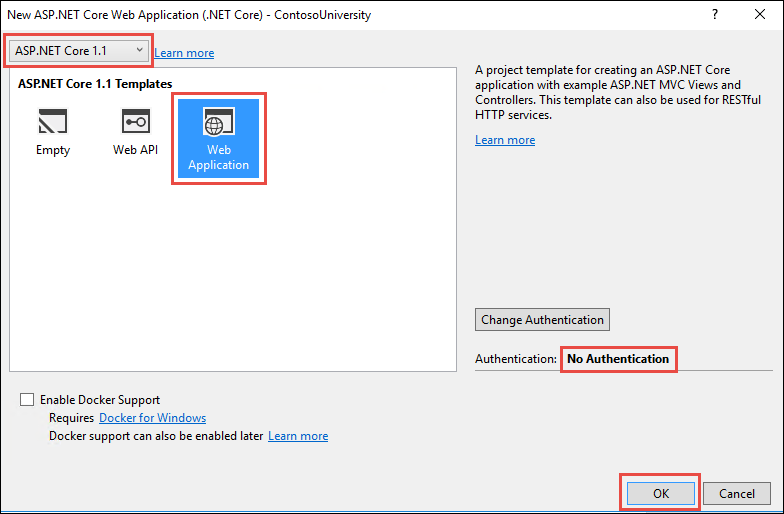
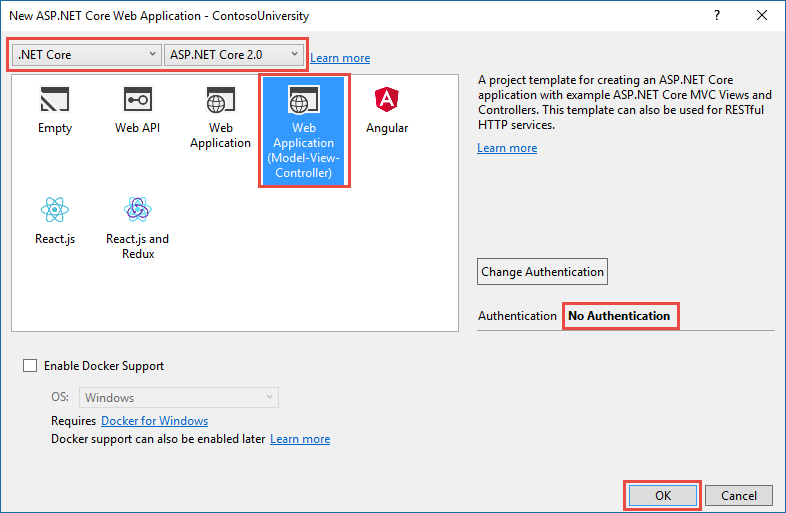
initial2

diff --git a/aspnetcore/data/ef-mvc/intro.md b/aspnetcore/data/ef-mvc/intro.md
@@ -59,7 +59,7 @@ Open Visual Studio and create a new ASP.NET Core C# web project named "ContosoUn
 
 * From the left pane, select **Templates > Visual C# > Web**.
 
-* Select the **ASP.NET Core Web Application (.NET Core)** project template.
+* Select the **ASP.NET Core Web Application** project template.
 
 * Enter **ContosoUniversity** as the name and click **OK**.
 
@@ -67,9 +67,9 @@ Open Visual Studio and create a new ASP.NET Core C# web project named "ContosoUn
 
 * Wait for the **New ASP.NET Core Web Application (.NET Core)** dialog to appear
 
-* Select **ASP.NET Core 1.1** and the **Web Application** template.
+* Select **ASP.NET Core 2.0** and the **Web Application (Model-View-Controller)** template.
 
-  **Note:** This tutorial requires ASP.NET Core 1.1 and EF Core 1.1 or later -- make sure that **ASP.NET Core 1.0** is not selected.
+  **Note:** This tutorial requires ASP.NET Core 2.0 and EF Core 2.0 or later -- make sure that **ASP.NET Core 1.1** is not selected.
 
 * Make sure **Authentication** is set to **No Authentication**.
 
@@ -101,14 +101,8 @@ Press CTRL+F5 to run the project or choose **Debug > Start Without Debugging** f
 
 ## Entity Framework Core NuGet packages
 
-To add EF Core support to a project, install the database provider that you want to target. For this tutorial, install the SQL Server provider:  [Microsoft.EntityFrameworkCore.SqlServer](https://www.nuget.org/packages/Microsoft.EntityFrameworkCore.SqlServer/). 
+To add EF Core support to a project, install the database provider that you want to target. This tutorial uses the SQL Server provider, [Microsoft.EntityFrameworkCore.SqlServer](https://www.nuget.org/packages/Microsoft.EntityFrameworkCore.SqlServer/). The provider package is already included in the [Microsoft.AspNetCore.All](xref:fundamentalthe [Microsoft.AspNetCore.All](xref:fundamentals/metapackage) metapackage, so you don't have to install it.
 
-To install the package, enter the following command in **Package Manager Console (PMC)**. (From the **Tools** menu, select **NuGet Package Manager > Package Manager Console**.)
-
-```
-Install-Package Microsoft.EntityFrameworkCore.SqlServer
-```
-  
 This package and its dependencies (`Microsoft.EntityFrameworkCore` and `Microsoft.EntityFrameworkCore.Relational`) provide run-time support for EF. You'll add a tooling package later, in the [Migrations](migrations.md) tutorial. 
 
 For information about other database providers that are available for Entity Framework Core, see [Database providers](https://docs.microsoft.com/ef/core/providers/).
@@ -126,8 +120,6 @@ In the following sections you'll create a class for each one of these entities.
 ### The Student entity
 
 ![Student entity diagram](intro/_static/student-entity.png)
-
-In the project folder, create a folder named *Models*.
 
 In the *Models* folder, create a class file named *Student.cs* and replace the template code with the following code.
 
@@ -221,13 +213,11 @@ In the *Data* folder, create a new class file named *DbInitializer.cs* and repla
 
 The code checks if there are any students in the database, and if not, it assumes the database is new and needs to be seeded with test data.  It loads test data into arrays rather than `List<T>` collections to optimize performance.
 
-In *Startup.cs*, modify the `Configure` method to call this seed method on application startup. First, add the context to the method signature so that ASP.NET dependency injection can provide it to your `DbInitializer` class.
+In *Program.cs*, modify the `Main` method to call this seed method on application startup. 
 
-[!code-csharp[Main](intro/samples/cu/Startup.cs?name=snippet_ConfigureSignature&highlight=1)]
+[!code-csharp[Main](intro/samples/cu/Program.cs?name=snippet_Seed&highlight=3-19)]
 
-Then call your `DbInitializer.Initialize` method at the end of the `Configure` method.
-
-[!code-csharp[Main](intro/samples/cu/Startup.cs?name=snippet_RouteAndSeed&highlight=8)]
+Add `using` statements for `Microsoft.Extensions.DependencyInjection` and  `ContosoUniversity.Data`.
 
 Now the first time you run the application the database will be created and seeded with test data. Whenever you change your data model, you can delete the database, update your seed method, and start afresh with a new database the same way. In later tutorials you'll see how to modify the database when the data model changes, without deleting and re-creating it.
 
